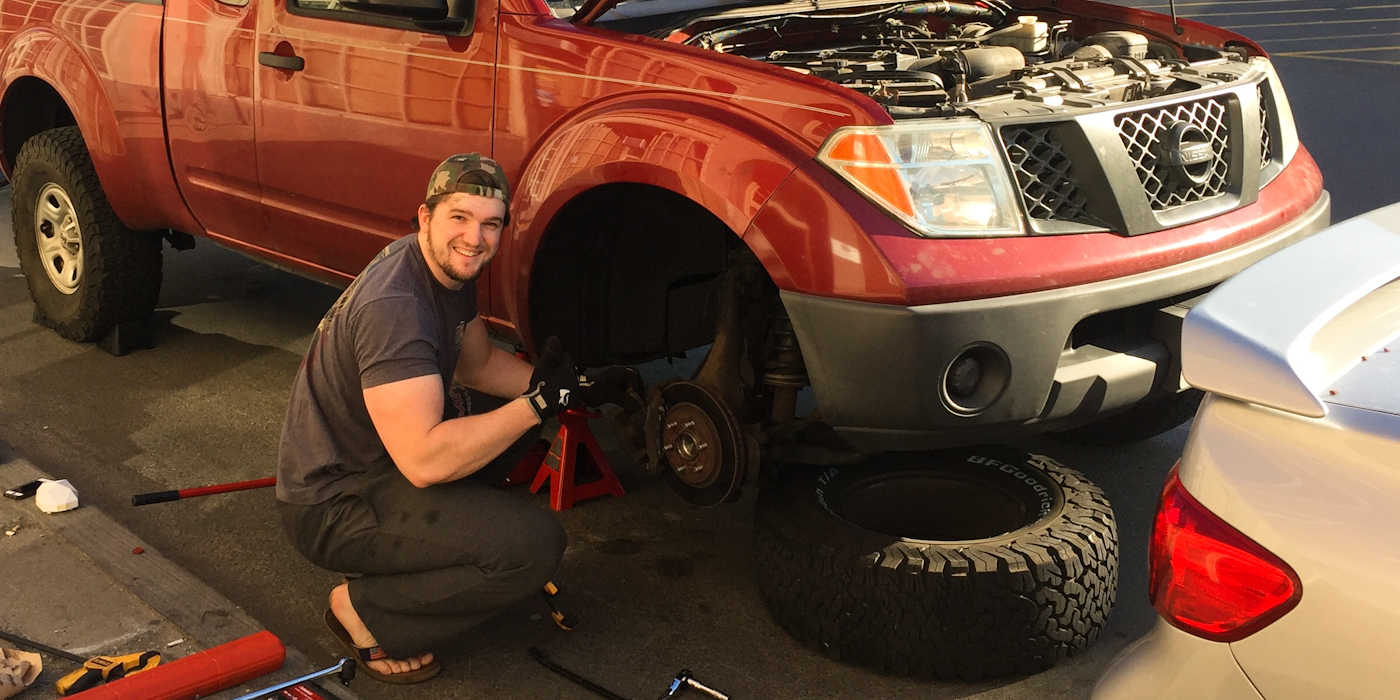
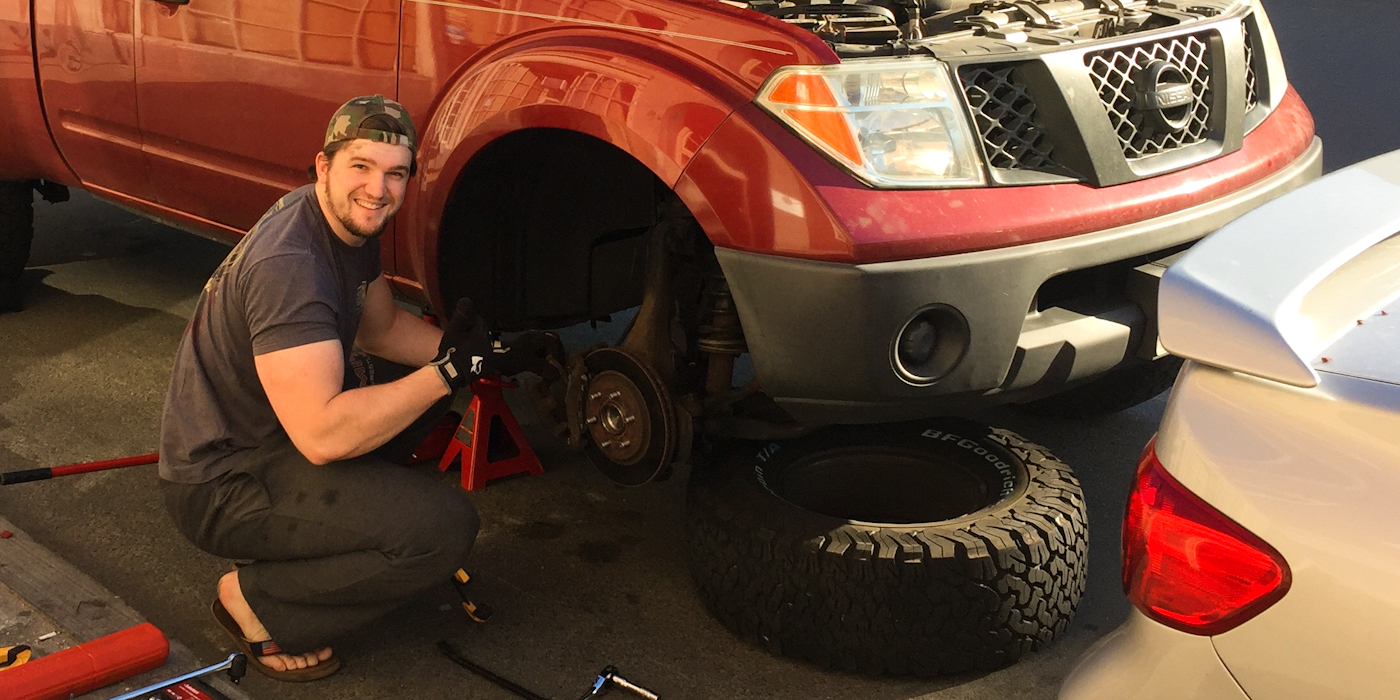
Truck yeah

diff --git a/about/index.html b/about/index.html
@@ -2,7 +2,7 @@
 layout: default
 title: About - bdharva
 ---
-<div id="hero" style="background-image:url('/assets/truckyeah.jpg');">
+<div id="hero" style="background-image:url('/assets/truckyeah.jpg'); background-position: left top;">
 	<div class="screen">
 		<div class="content">
 			<h1>Ben Harvatine</h1>
